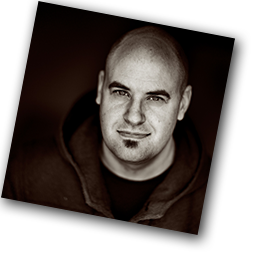
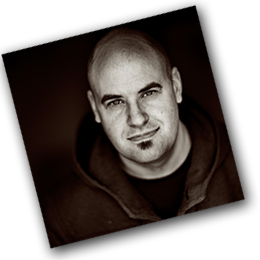
Made the design a bit more dynamic

diff --git a/public/stylesheets/screen.css b/public/stylesheets/screen.css
@@ -128,9 +128,9 @@ body.three-col #right-side { display: inline; float: left; margin-right: 0; widt
 
 #about p { width: 500px; }
 
-#profile-picture { background-image: url("http://cre8ivethought.s3.amazonaws.com/images/layout/profile-picture.png"); background-position: right bottom; top: 15px; left: 10px; width: 222px; height: 268px; position: absolute; z-index: 300; }
+#profile-picture { background-image: url("http://cre8ivethought.s3.amazonaws.com/images/layout/profile-picture.png"); background-position: right bottom; top: 20px; left: 10px; width: 222px; height: 260px; position: absolute; z-index: 300; }
 
-#profile-picture-about { background-image: url("http://cre8ivethought.s3.amazonaws.com/images/layout/profile-picture-about.png"); background-position: left bottom; top: 15px; left: 21px; width: 222px; height: 268px; position: relative; z-index: 300; float: right; }
+#profile-picture-about { background-image: url("http://cre8ivethought.s3.amazonaws.com/images/layout/profile-picture-about.png"); background-position: left bottom; top: 15px; left: 21px; width: 222px; height: 260px; position: relative; z-index: 300; float: right; }
 
 #header { position: fixed; background: #edeae1; }
 

diff --git a/public/src/screen.scss b/public/src/screen.scss
@@ -157,10 +157,10 @@ body.three-col {
 #profile-picture {
   background-image: url("http://cre8ivethought.s3.amazonaws.com/images/layout/profile-picture.png");
   background-position: right bottom;
-  top: 15px;
+  top: 20px;
   left: 10px;
   width: 222px;
-  height: 268px;
+  height: 260px;
   position: absolute;
   z-index: 300;
   }
@@ -171,7 +171,7 @@ body.three-col {
   top: 15px;
   left: 21px;
   width: 222px;
-  height: 268px;
+  height: 260px;
   position: relative;
   z-index: 300;
   float: right;
